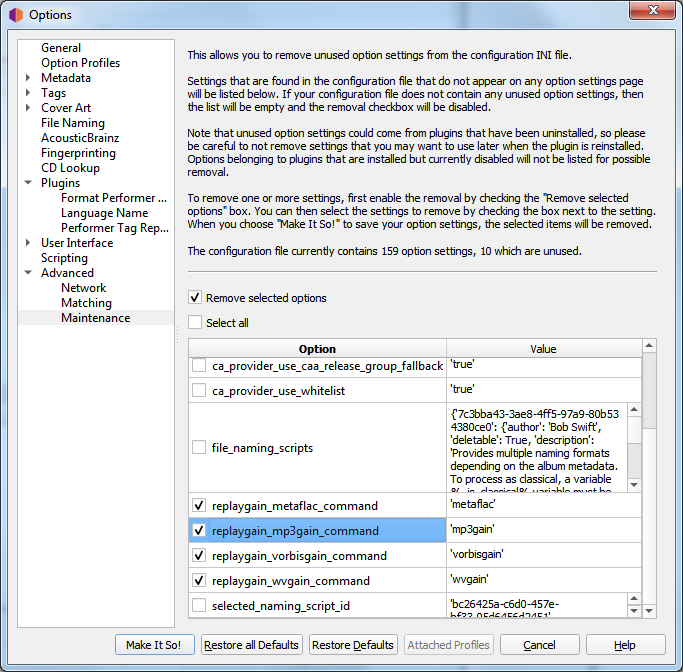
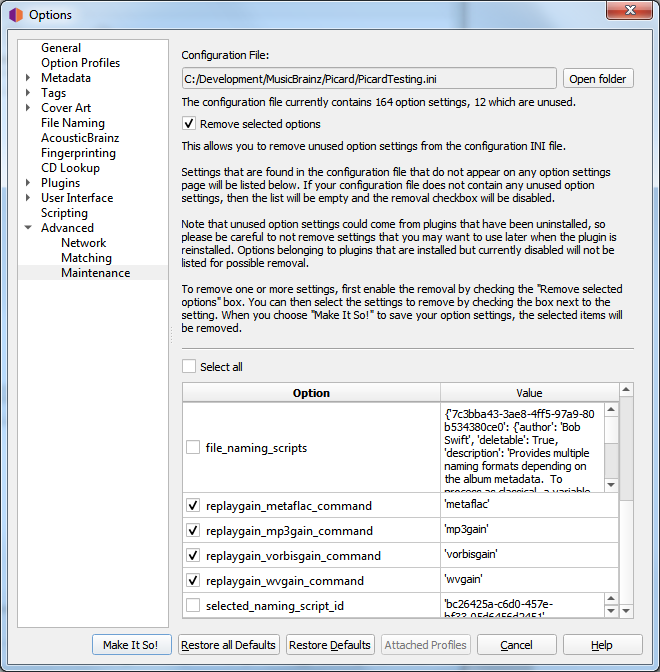
Add note about config file location and update screen shot

diff --git a/config/options_maintenance.rst b/config/options_maintenance.rst
@@ -6,23 +6,33 @@
 .. image:: images/options-maintenance.png
    :width: 100 %
 
-Over the course of trying out plugins and such, the configuration INI file can become
-bloated with orphaned settings.  This section allows you to remove unused option settings
-from the configuration INI file.
+**Configuration File**
 
-Settings that are found in the configuration file that do not appear on any option
-settings page will be listed. If your configuration file does not contain any unused
-option settings, then the list will be empty and the removal checkbox will be
-disabled.
+   This displays the path and file name of the configuration INI file currently used by
+   Picard. This file contains all of your settings and preferences, and the format of the
+   file is consistent across operating systems. There is also a :guilabel:`Open Folder`
+   button to open the location in your system's file browser, so that you can easily make
+   a backup copy of the file or to copy the settings for use on a different computer.
 
-To remove one or more settings, first enable the removal by checking the "Remove
-selected options" box. You can then select the settings to remove by checking the
-box next to the setting. When you choose :guilabel:`Make It So!` to save your option
-settings, the selected items will be removed.
+**Configuration File Cleanup**
 
-.. note::
+   Over the course of trying out plugins and such, the configuration INI file can become
+   bloated with orphaned settings.  This section allows you to remove unused option settings
+   from the configuration INI file.
 
-   Unused option settings could come from plugins that have been uninstalled,
-   so please be careful to not remove settings that you may want to use later when
-   the plugin is reinstalled. Options belonging to plugins that are installed but
-   currently disabled will not be listed for possible removal.
+   Settings that are found in the configuration file that do not appear on any option
+   settings page will be listed. If your configuration file does not contain any unused
+   option settings, then the list will be empty and the removal checkbox will be
+   disabled.
+
+   To remove one or more settings, first enable the removal by checking the "Remove
+   selected options" box. You can then select the settings to remove by checking the
+   box next to the setting. When you choose :guilabel:`Make It So!` to save your option
+   settings, the selected items will be removed.
+
+   .. note::
+
+      Unused option settings could come from plugins that have been uninstalled,
+      so please be careful to not remove settings that you may want to use later when
+      the plugin is reinstalled. Options belonging to plugins that are installed but
+      currently disabled will not be listed for possible removal.
